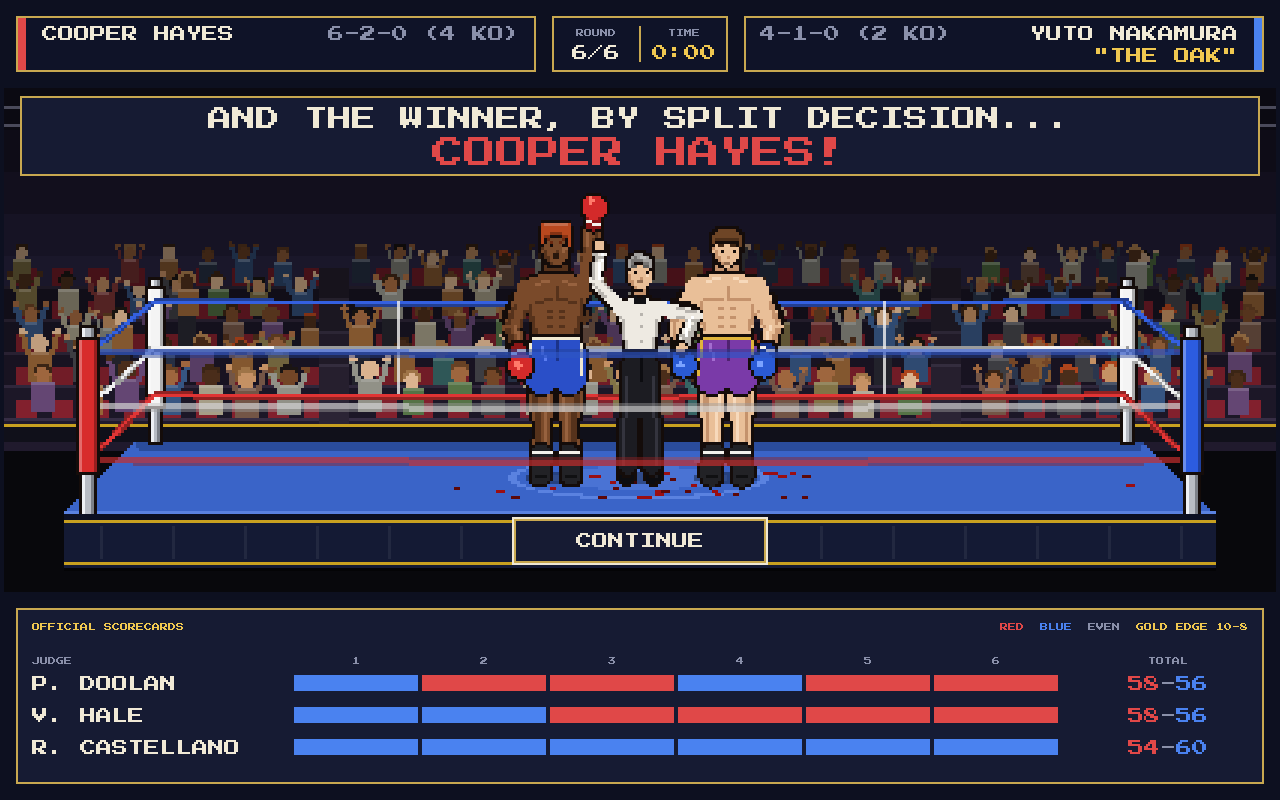
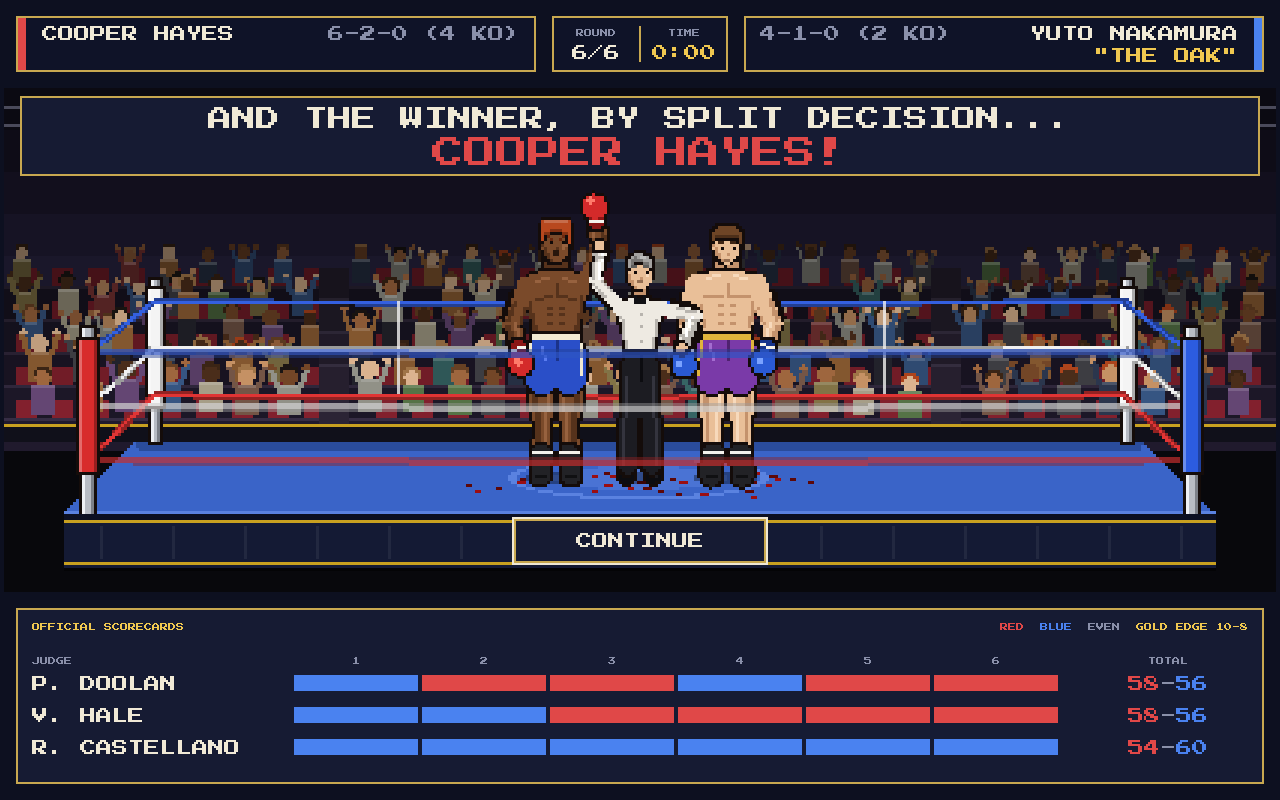
0.1.33: Computer boxers level off; screenshots updated
The computer's boxers gain less each month as a skill climbs past 60, so
prospects improve quickly while raw but level off in the 70s unless
gifted. Before, after five years every division's top ten averaged 88-90
overall (best 94-97), out of the player's reach; now about 77 (best
83-88). Screenshots refreshed for the 0.1.32 monster changes.

Claude-Session: https://claude.ai/code/session_01PF6KKrB4uHprcLjw7ppdzy

diff --git a/CHANGELOG.md b/CHANGELOG.md
@@ -4,6 +4,18 @@ Every build bumps the last number of the version while the game is a
 prototype. The version lives in `project.godot` (`application/config/version`)
 and is shown on the main menu.
 
+## 0.1.33
+
+* The computer's boxers no longer all become world class: their monthly
+  gains (training and youth) shrink as a skill climbs past 60, so a
+  prospect improves quickly while he is raw but levels off in the 70s
+  unless he was gifted to begin with. Before, every young prospect kept
+  climbing, and after five years each division's top ten averaged 88-90
+  overall (best 94-97) - far beyond what the player's boxer can reach.
+  Now they average about 77 (best 83-88), so a well-trained boxer can
+  rise above the pack.
+* Screenshots updated for the 0.1.32 monster changes.
+
 ## 0.1.32
 
 * Training: a skill that is still low improves faster (a catch-up bonus

diff --git a/README.md b/README.md
@@ -408,7 +408,9 @@ The season starts in January 2027 and runs a month at a time:
   previous results.
 * **Month end.** Everyone trains (harder in camp) and gets older. Young men
   still improve, men in their prime hold steady, and from 32 skills start
-  to fade, speed first. Men over 34 may retire (at 39 they always do), and
+  to fade, speed first. The better a skill already is, the less a month
+  adds to it, so most men level off in the 70s and only the naturally
+  gifted are world class. Men over 34 may retire (at 39 they always do), and
   a young prospect takes each one's place at the bottom of his division.
   Then **READ THE PAPER**.
 
